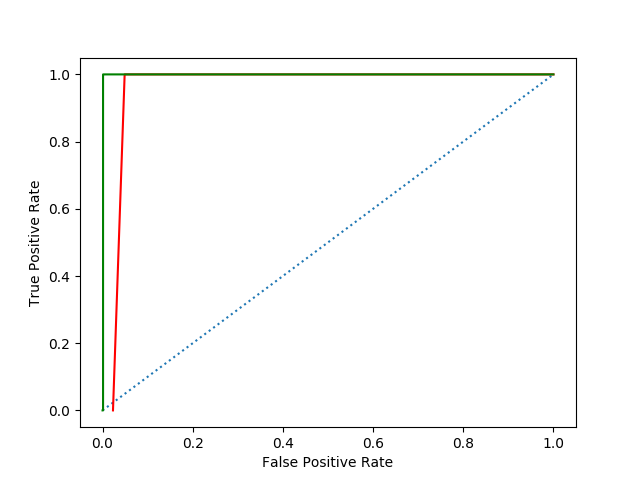
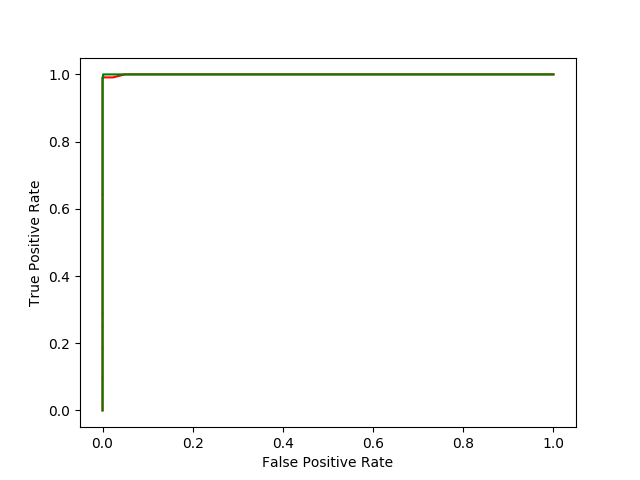
buggy streamlined roc

Changed region(s): [[0.1562, 0.1562, 0.2188, 0.875]]

diff --git a/hw4/src/main.py b/hw4/src/main.py
@@ -113,49 +113,66 @@ def get_AAGxyT_counts(count_list):
 def plot_roc(key_map, color):
   print("plotting " + color)
 
-  key_map = sorted(key_map, )
+  key_map = sorted(key_map)
+  df = pd.DataFrame(key_map, columns=["key", "match"])
   ss_pairs = []
 
   thresholds = set([item[0] for item in key_map])
 
-  for threshold in thresholds:
-    threshold_dict = []
-    non_threshold_dict = []
+  start_time = time.time()
+  fpr, tpr, thresholds = metrics.roc_curve(df["match"], df["key"])
+  end_time = time.time()
+  print(end_time - start_time)
 
-    # sort and sequentially divide instead
-    for item in key_map:
-      if item[0] >= threshold:
-        threshold_dict.append(item[1])
-      else:
-        non_threshold_dict.append(item[1])
+  # for threshold in thresholds:
+  #   start_time = time.time()
 
-    true_positives = sum(threshold_dict)
-    false_positives = len(threshold_dict) - true_positives
-    false_negatives = sum(non_threshold_dict)
-    true_negatives = len(non_threshold_dict) - false_negatives
+  #   threshold_dict = []
+  #   non_threshold_dict = []
 
-    if true_positives == 0:
-      tpr = 0
-      # continue
-    else:
-      tpr = true_positives / (true_positives + false_negatives)
+  #   # sort and sequentially divide instead
+  #   metrics.roc_curve()
+
+  #   threshold_dict = [df["key"] >= threshold]
+  #   non_threshold_dict = [df["key"] < threshold]
+
+  #   # for item in key_map:
+  #   #   if item[0] >= threshold:
+  #   #     threshold_dict.append(item[1])
+  #   #   else:
+  #   #     non_threshold_dict.append(item[1])
+
+  #   true_positives = sum(threshold_dict)
+  #   false_positives = len(threshold_dict) - true_positives
+  #   false_negatives = sum(non_threshold_dict)
+  #   true_negatives = len(non_threshold_dict) - false_negatives
+
+  #   if true_positives == 0:
+  #     tpr = 0
+  #     # continue
+  #   else:
+  #     tpr = true_positives / (true_positives + false_negatives)
     
-    if false_positives == 0:
-      fpr = 0
-      # continue
-    else:
-      fpr = false_positives / (false_positives + true_negatives)
+  #   if false_positives == 0:
+  #     fpr = 0
+  #     # continue
+  #   else:
+  #     fpr = false_positives / (false_positives + true_negatives)
 
-    ss_pairs.append([fpr, tpr])
+  #   ss_pairs.append([fpr, tpr])
+  #   end_time = time.time()
+  #   print(end_time - start_time)
 
   print("done calculating")
 
-  ss_pairs = sorted(ss_pairs, key=lambda pair: [pair[0], pair[1]])
-  x_values = [point[0] for point in ss_pairs]
-  y_values = [point[1] for point in ss_pairs]
-  auc = metrics.auc(x_values, y_values)
+  # ss_pairs = sorted(ss_pairs, key=lambda pair: [pair[0], pair[1]])
+  # x_values = [point[0] for point in ss_pairs]
+  # y_values = [point[1] for point in ss_pairs]
+  # auc = metrics.auc(x_values, y_values)
+  auc = metrics.roc_auc_score(df["match"], df["key"])
 
-  plt.plot(x_values, y_values, color=color)
+  # plt.plot(x_values, y_values, color=color)
+  plt.plot(fpr, tpr, color=color)
 
   return auc
 
@@ -328,26 +345,25 @@ def main():
   end_time = time.time()
   print(end_time - start_time)
 
-  # plt.plot([0, 1], [0, 1], linestyle=":")
-  # length_auc = plot_roc(roc_length_map, "red")
-  # score_auc = plot_roc(roc_score_map, "green")
+  length_auc = plot_roc(roc_length_map, "red")
+  score_auc = plot_roc(roc_score_map, "green")
 
-  # overall_output.write("length_auc: {}".format(length_auc))
-  # overall_output.write("score_auc: {}".format(score_auc))
-  # overall_output.close()
+  overall_output.write("\nlength_auc: {}\n".format(length_auc))
+  overall_output.write("\nscore_auc: {}\n".format(score_auc))
+  overall_output.close()
 
-  # print("saving plot to output")
-  # plt.ylabel("True Positive Rate")
-  # plt.xlabel("False Positive Rate")
-  # plt.savefig(c.results_folder + "roc" + c.png_exten)
+  print("saving plot to output")
+  plt.ylabel("True Positive Rate")
+  plt.xlabel("False Positive Rate")
+  plt.savefig(c.results_folder + "roc" + c.png_exten)
 
-  # plt.xlim(0.00, 0.15)
-  # plt.ylim(0.85, 1.00)
-  # plt.savefig(c.results_folder + "roc" + c.png_exten)
-  # plt.close()
+  plt.xlim(-0.20, 0.25)
+  plt.ylim(0.5, 1.00)
+  plt.savefig(c.results_folder + "roc_zoom" + c.png_exten)
+  plt.close()
 
   print("creating flashbulb")
-  plot_flashbulb(roc_flashbulb_list, "blue", "orange")
+  plot_flashbulb(roc_flashbulb_list, "green", "red")
   plt.ylabel("Markov Score")
   plt.xlabel("ORF Length")
   plt.savefig(c.results_folder + "flashbulb" + c.png_exten)
